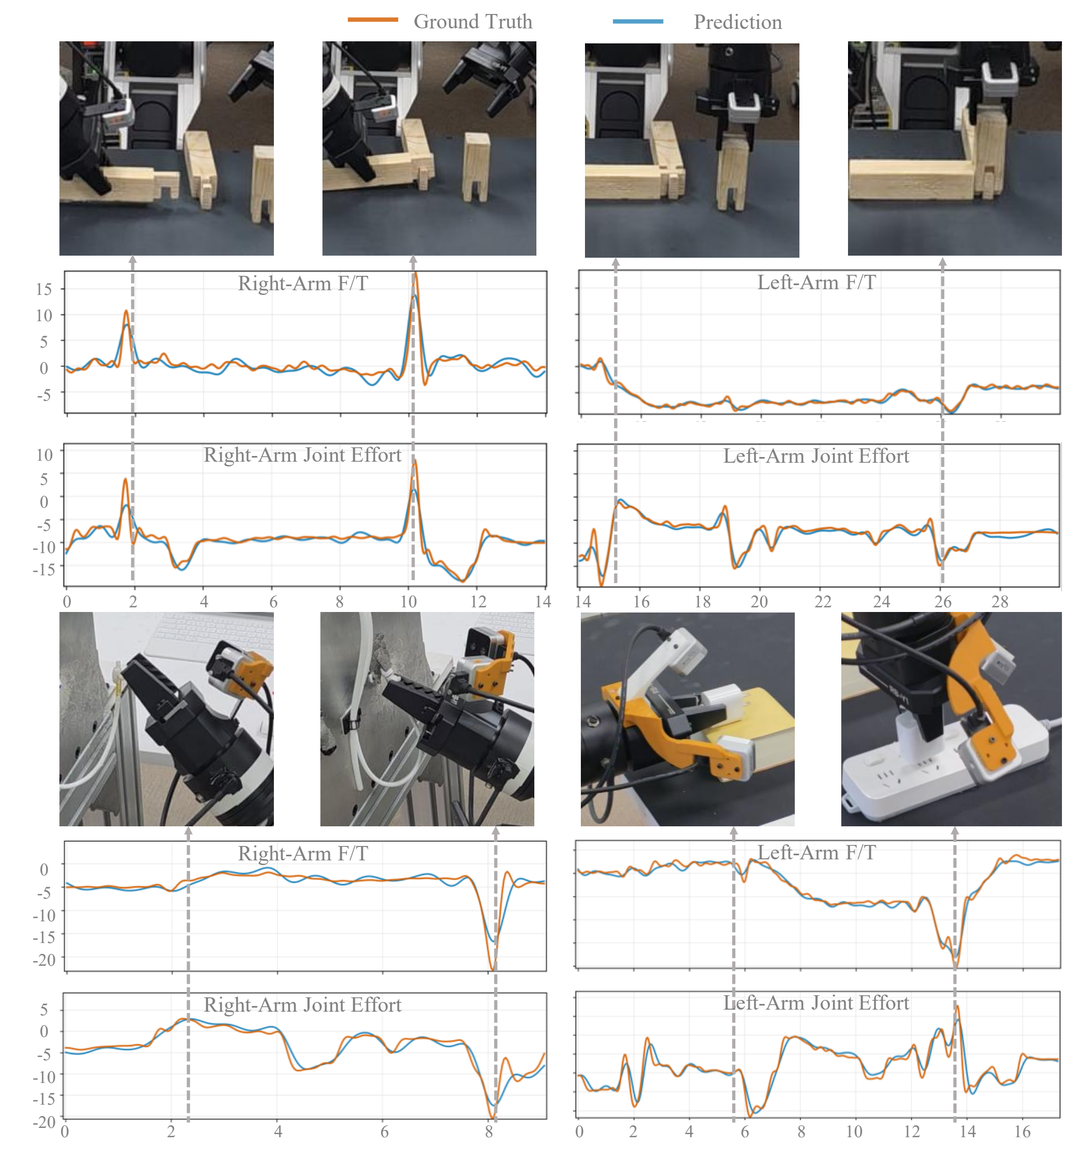
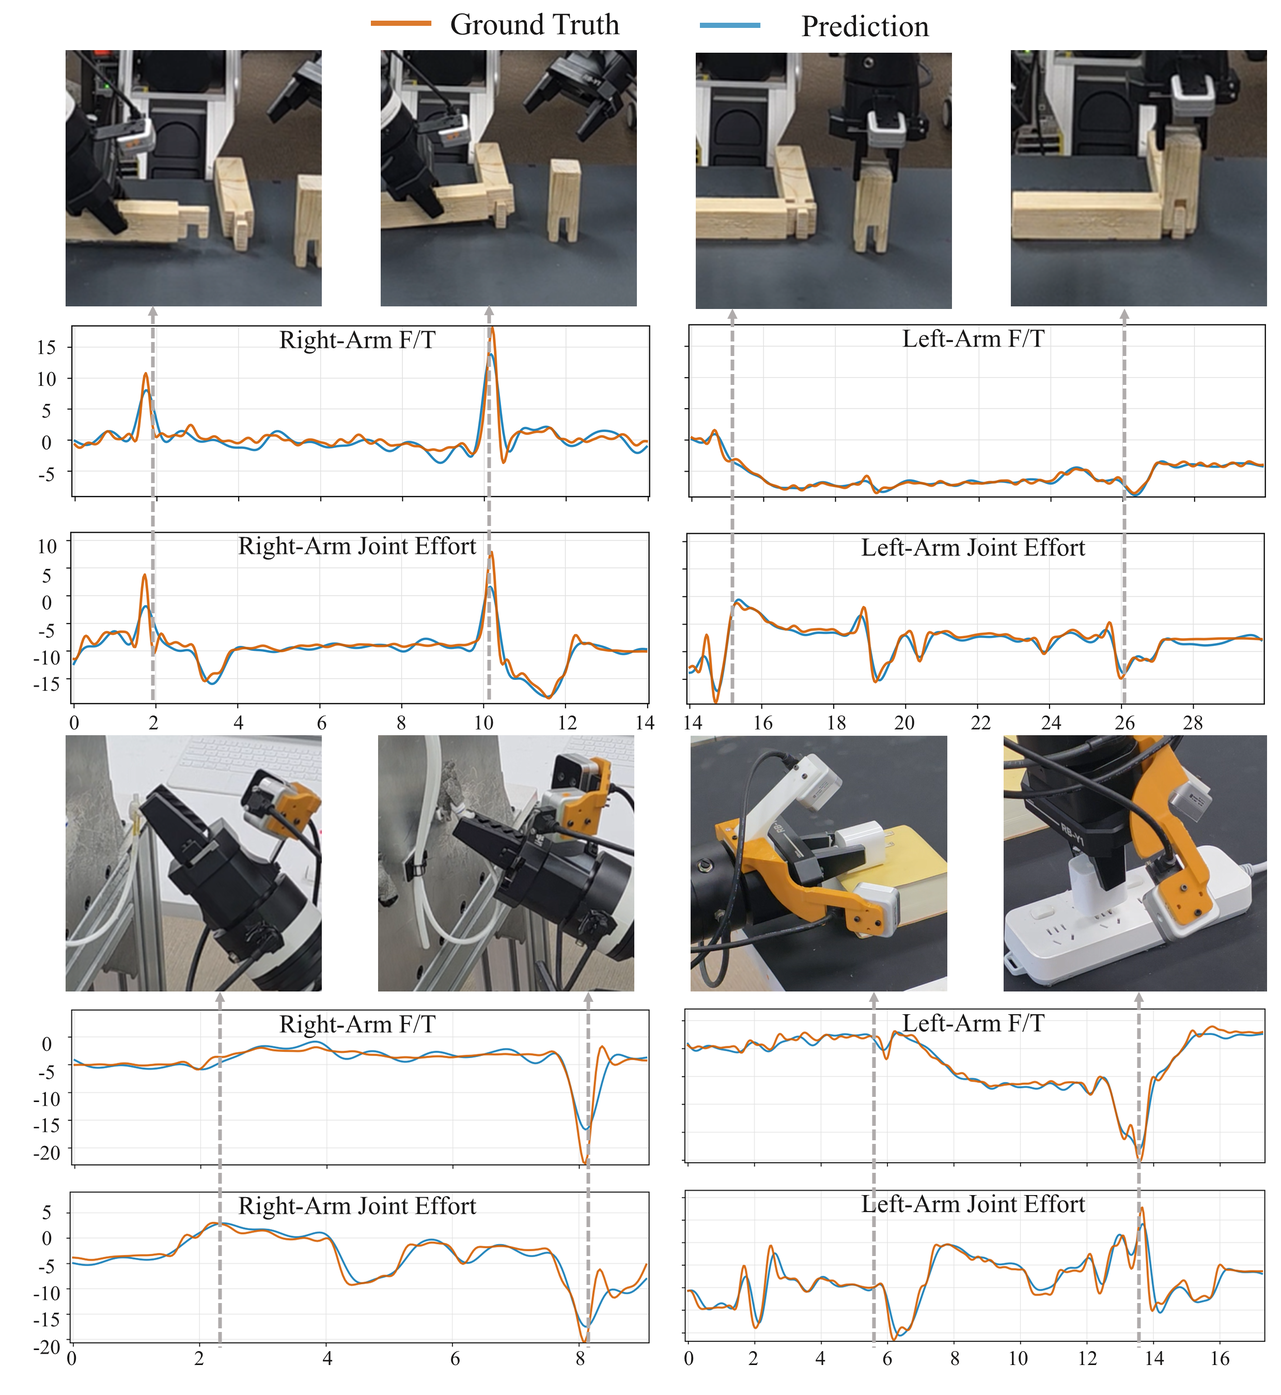
Update project page for PSR-VLA

diff --git a/index.html b/index.html
@@ -3,8 +3,8 @@
 <head>
   <meta charset="utf-8">
   <meta name="viewport" content="width=device-width, initial-scale=1">
-  <meta name="description" content="PSA research project page preview">
-  <title>PSA | Project Page</title>
+  <meta name="description" content="PSR-VLA research project page for predictive sensorimotor representation learning">
+  <title>PSR-VLA | Project Page</title>
   <link rel="icon" href="./assets/favicon.svg" type="image/svg+xml">
   <link rel="stylesheet" href="./styles.css">
 </head>
@@ -13,7 +13,7 @@
 
   <header class="site-header">
     <nav class="site-nav" aria-label="Primary navigation">
-      <a class="site-name" href="#top">PSA</a>
+      <a class="site-name" href="#top">PSR-VLA</a>
       <div class="site-links">
         <a href="#tasks">Tasks</a>
         <a href="#continuous">Stability Tests</a>
@@ -27,7 +27,7 @@
   <main id="main">
     <section class="paper-header" id="top">
       <p class="paper-status">Research project · 2026</p>
-      <h1><span>PSA:</span> Predictive Sensorimotor Alignment for Contact-Rich Manipulation</h1>
+      <h1><span>PSR-VLA:</span> Predictive Sensorimotor Representation Learning for Contact-Rich Manipulation</h1>
 
       <p class="authors">
         <a href="#">Shengbao Li<sup>*</sup></a>,
@@ -51,15 +51,15 @@
     </section>
 
     <section class="intro" aria-labelledby="intro-title">
-      <h2 id="intro-title">A predictive sensorimotor module gives a vision-language-action policy explicit physical context for contact-rich manipulation.</h2>
-      <p>PSA-VLA augments a π<sub>0.5</sub>-style policy with a six-layer multimodal Transformer trained to anticipate future force/torque, joint effort, and terminal joint-state displacement. Its hierarchical features are injected throughout the action expert to support precise interaction under contact.</p>
+      <h2 id="intro-title">Prediction-supervised sensorimotor representations connect physical history to action generation.</h2>
+      <p>PSR learns representations from multimodal sensorimotor signals by jointly forecasting future force/torque sequences, future joint-effort sequences, and terminal joint-state displacement. PSR-VLA integrates the resulting hierarchy into selected Action Expert layers through gated cross-attention.</p>
     </section>
 
     <section class="rollout-showcase" id="tasks" aria-labelledby="tasks-title">
       <div class="section-heading section-heading--wide">
         <p class="eyebrow">Real-world task suite</p>
         <h2 id="tasks-title">Six tasks across three levels of contact difficulty.</h2>
-        <p>The desktop layout reads by column: hard, medium, and easy. Each slot is reserved for a short, muted rollout from the corresponding PSA-VLA evaluation.</p>
+        <p>The desktop layout reads by column: hard, medium, and easy. Each slot is reserved for a short, muted rollout from the corresponding PSR-VLA evaluation.</p>
       </div>
 
       <div class="difficulty-grid">
@@ -153,35 +153,35 @@
       <div class="section-heading">
         <p class="eyebrow">Long-horizon stability tests</p>
         <h2 id="continuous-title">Continuous execution beyond the main evaluation.</h2>
-        <p>These tests are reported separately and are not included in the six-task success-rate averages. Water-Hose uses a task-specific dataset extended from 300 to 600 demonstrations; the Interlocking Joint test uses the original 300 demonstrations with no additional training data.</p>
+        <p>These stress tests reuse the PSR-VLA checkpoints from the main experiments without expanding the training sets or performing additional training. They are reported separately and are not included in the six-task success-rate averages.</p>
       </div>
 
       <div class="endurance-grid">
         <figure class="endurance-card endurance-card--water">
-          <header><div><span>Expanded dataset · 600 demonstrations</span><h3>Water-Hose Insertion</h3></div><strong>9 positions</strong></header>
+          <header><div><span>Main-experiment checkpoint · no added training</span><h3>Water-Hose Insertion</h3></div><strong>442 / 450</strong></header>
           <div class="endurance-video">
             <video autoplay muted loop playsinline preload="metadata" poster="./assets/task-water-hose.png" aria-label="Time-compressed recording of the continuous Water-Hose stability test"><source src="./assets/videos/07_water_hose_90min.mp4" type="video/mp4"></video>
             <span class="media-slot media-slot--light">9-min time-compressed slot</span>
           </div>
-          <figcaption class="endurance-stats" aria-label="Water-Hose stability test summary">
-            <p><strong>90</strong><span>source minutes</span></p>
-            <p><strong>9</strong><span>web-video minutes</span></p>
-            <p><strong>450</strong><span>consecutive trials</span></p>
+          <figcaption class="endurance-stats" aria-label="Water-Hose stability test: 442 successes in 450 consecutive trials, 98.2 percent, across nine positions">
+            <p><strong>442/450</strong><span>successful trials</span></p>
+            <p><strong>98.2%</strong><span>success rate</span></p>
             <p><strong>9</strong><span>test positions</span></p>
+            <p><strong>50</strong><span>trials per position</span></p>
           </figcaption>
         </figure>
 
         <figure class="endurance-card endurance-card--mortise">
-          <header><div><span>Original dataset · no added demonstrations</span><h3>Interlocking Joint Assembly</h3></div><strong>Continuous run</strong></header>
+          <header><div><span>Main-experiment checkpoint · no added training</span><h3>Interlocking Joint Assembly</h3></div><strong>48 / 50</strong></header>
           <div class="endurance-video">
             <video autoplay muted loop playsinline preload="metadata" poster="./assets/task-mortise-tenon.png" aria-label="Continuous 60-minute Interlocking Joint stability test"><source src="./assets/videos/08_mortise_tenon_60min.mp4" type="video/mp4"></video>
             <span class="media-slot media-slot--light">60-min test video slot</span>
           </div>
-          <figcaption class="endurance-stats" aria-label="Interlocking Joint stability test summary">
-            <p><strong>60</strong><span>test minutes</span></p>
-            <p><strong>80</strong><span>consecutive trials</span></p>
-            <p><strong>1</strong><span>continuous session</span></p>
-            <p><strong>300</strong><span>training demos</span></p>
+          <figcaption class="endurance-stats" aria-label="Interlocking Joint stability test: 48 successes in 50 consecutive trials, 96 percent">
+            <p><strong>48/50</strong><span>successful trials</span></p>
+            <p><strong>96.0%</strong><span>success rate</span></p>
+            <p><strong>50</strong><span>consecutive trials</span></p>
+            <p><strong>0</strong><span>retries or recovery</span></p>
           </figcaption>
         </figure>
       </div>
@@ -218,23 +218,23 @@
     <section class="content-section model-section" id="model">
       <div class="section-heading">
         <p class="eyebrow">Method</p>
-        <h2>The PSA-VLA Model</h2>
-        <p>PSA receives multiview visual tokens, force/torque history, robot state, and joint-effort history. Predictive pretraining turns these signals into shallow, middle, and deep physical representations that condition six levels of the action expert.</p>
+        <h2>The PSR-VLA Model</h2>
+        <p>PSR receives multiview visual tokens, force/torque history, robot state, and joint-effort history. Predictive pretraining produces an ordered hierarchy of prediction-supervised representations that condition selected layers of the Action Expert.</p>
       </div>
 
       <figure class="wide-figure">
-        <img src="./assets/fig-method-overview.png" alt="PSA-VLA model overview">
-        <figcaption><span>Figure 1.</span> Sensorimotor predictive learning and hierarchical injection into the VLA action expert.</figcaption>
+        <img src="./assets/fig-method-overview.png" alt="PSR-VLA model overview">
+        <figcaption><span>Figure 1.</span> PSR learns prediction-supervised sensorimotor representations through multi-target forecasting and integrates them into selected Action Expert layers.</figcaption>
       </figure>
 
-      <div class="method-explanation" aria-label="PSA-VLA training stages">
+      <div class="method-explanation" aria-label="PSR-VLA training stages">
         <article>
           <span>01</span>
           <div><h3>Predictive pretraining</h3><p>A multimodal Transformer processes visual tokens together with force/torque, robot-state, and joint-effort histories. A shared decoder reads every retained layer and predicts future force/torque, future joint effort, and terminal joint-state displacement, shaping a hierarchy that captures contact response, actuation load, and motion intent.</p></div>
         </article>
         <article>
           <span>02</span>
-          <div><h3>Depth-aligned action augmentation</h3><p>During action learning, selected Action Expert layers query the corresponding PSA representations through gated cross-attention. Independently learned gates regulate each residual update, injecting progressively integrated physical context while preserving the pretrained action pathway.</p></div>
+          <div><h3>Sensorimotor representation integration</h3><p>During action learning, selected Action Expert layers query the corresponding PSR representations through gated cross-attention. Independently learned gates regulate each residual update, exposing progressively fused physical context at successive stages while preserving the pretrained action pathway.</p></div>
         </article>
       </div>
     </section>
@@ -253,7 +253,7 @@
             <span><i class="legend-pi" aria-hidden="true"></i>π<sub>0.5</sub></span>
             <span><i class="legend-force" aria-hidden="true"></i>ForceVLA</span>
             <span><i class="legend-force2" aria-hidden="true"></i>ForceVLA2</span>
-            <span><i class="legend-spa" aria-hidden="true"></i>PSA-VLA</span>
+            <span><i class="legend-spa" aria-hidden="true"></i>PSR-VLA</span>
           </div>
 
           <div class="chart-body">
@@ -265,25 +265,25 @@
                 <span class="band-hard">Hard</span><span class="band-medium">Medium</span><span class="band-easy">Easy</span><span class="band-average">Overall</span>
               </div>
               <div class="chart-groups">
-                <section class="chart-group" aria-label="Interlocking Joint Assembly: π0.5 45%, ForceVLA-π0.5 60%, ForceVLA2-π0.5 65%, PSA-VLA 90%">
+                <section class="chart-group" aria-label="Interlocking Joint Assembly: π0.5 45%, ForceVLA-π0.5 60%, ForceVLA2-π0.5 65%, PSR-VLA 90%">
                   <div class="bar-pack"><i class="metric-bar bar-pi" style="--value:45"><b>45</b></i><i class="metric-bar bar-force" style="--value:60"><b>60</b></i><i class="metric-bar bar-force2" style="--value:65"><b>65</b></i><i class="metric-bar bar-spa" style="--value:90"><b>90</b></i></div><img class="chart-task-image" src="./assets/task-mortise-tenon.png" alt="" loading="lazy"><h3>Interlocking<br>Joint</h3>
                 </section>
-                <section class="chart-group" aria-label="Water-Hose Insertion: π0.5 65%, ForceVLA-π0.5 70%, ForceVLA2-π0.5 75%, PSA-VLA 95%">
+                <section class="chart-group" aria-label="Water-Hose Insertion: π0.5 65%, ForceVLA-π0.5 70%, ForceVLA2-π0.5 75%, PSR-VLA 95%">
                   <div class="bar-pack"><i class="metric-bar bar-pi" style="--value:65"><b>65</b></i><i class="metric-bar bar-force" style="--value:70"><b>70</b></i><i class="metric-bar bar-force2" style="--value:75"><b>75</b></i><i class="metric-bar bar-spa" style="--value:95"><b>95</b></i></div><img class="chart-task-image" src="./assets/task-water-hose.png" alt="" loading="lazy"><h3>Water-<br>Hose</h3>
                 </section>
-                <section class="chart-group" aria-label="Three-Hole Plug Insertion: π0.5 60%, ForceVLA-π0.5 60%, ForceVLA2-π0.5 85%, PSA-VLA 80%">
+                <section class="chart-group" aria-label="Three-Hole Plug Insertion: π0.5 60%, ForceVLA-π0.5 60%, ForceVLA2-π0.5 85%, PSR-VLA 80%">
                   <div class="bar-pack"><i class="metric-bar bar-pi" style="--value:60"><b>60</b></i><i class="metric-bar bar-force" style="--value:60"><b>60</b></i><i class="metric-bar bar-force2" style="--value:85"><b>85</b></i><i class="metric-bar bar-spa" style="--value:80"><b>80</b></i></div><img class="chart-task-image" src="./assets/task-three-hole-plug.png" alt="" loading="lazy"><h3>3-Hole<br>Plug</h3>
                 </section>
-                <section class="chart-group" aria-label="LEGO Assembly: π0.5 65%, ForceVLA-π0.5 70%, ForceVLA2-π0.5 55%, PSA-VLA 90%">
+                <section class="chart-group" aria-label="LEGO Assembly: π0.5 65%, ForceVLA-π0.5 70%, ForceVLA2-π0.5 55%, PSR-VLA 90%">
                   <div class="bar-pack"><i class="metric-bar bar-pi" style="--value:65"><b>65</b></i><i class="metric-bar bar-force" style="--value:70"><b>70</b></i><i class="metric-bar bar-force2" style="--value:55"><b>55</b></i><i class="metric-bar bar-spa" style="--value:90"><b>90</b></i></div><img class="chart-task-image" src="./assets/task-lego.png" alt="" loading="lazy"><h3>LEGO</h3>
                 </section>
-                <section class="chart-group" aria-label="Two-Hole Plug Insertion: π0.5 65%, ForceVLA-π0.5 75%, ForceVLA2-π0.5 80%, PSA-VLA 95%">
+                <section class="chart-group" aria-label="Two-Hole Plug Insertion: π0.5 65%, ForceVLA-π0.5 75%, ForceVLA2-π0.5 80%, PSR-VLA 95%">
                   <div class="bar-pack"><i class="metric-bar bar-pi" style="--value:65"><b>65</b></i><i class="metric-bar bar-force" style="--value:75"><b>75</b></i><i class="metric-bar bar-force2" style="--value:80"><b>80</b></i><i class="metric-bar bar-spa" style="--value:95"><b>95</b></i></div><img class="chart-task-image" src="./assets/task-two-hole-plug.png" alt="" loading="lazy"><h3>2-Hole<br>Plug</h3>
                 </section>
-                <section class="chart-group" aria-label="Board Wiping: π0.5 70%, ForceVLA-π0.5 80%, ForceVLA2-π0.5 75%, PSA-VLA 100%">
+                <section class="chart-group" aria-label="Board Wiping: π0.5 70%, ForceVLA-π0.5 80%, ForceVLA2-π0.5 75%, PSR-VLA 100%">
                   <div class="bar-pack"><i class="metric-bar bar-pi" style="--value:70"><b>70</b></i><i class="metric-bar bar-force" style="--value:80"><b>80</b></i><i class="metric-bar bar-force2" style="--value:75"><b>75</b></i><i class="metric-bar bar-spa" style="--value:100"><b>100</b></i></div><img class="chart-task-image" src="./assets/task-board-wipe.png" alt="" loading="lazy"><h3>Board<br>Wipe</h3>
                 </section>
-                <section class="chart-group chart-group--average" aria-label="Overall success rate: π0.5 61.7%, ForceVLA-π0.5 69.2%, ForceVLA2-π0.5 72.5%, PSA-VLA 91.7%">
+                <section class="chart-group chart-group--average" aria-label="Overall success rate: π0.5 61.7%, ForceVLA-π0.5 69.2%, ForceVLA2-π0.5 72.5%, PSR-VLA 91.7%">
                   <div class="bar-pack"><i class="metric-bar bar-pi" style="--value:61.7"><b>61.7</b></i><i class="metric-bar bar-force" style="--value:69.2"><b>69.2</b></i><i class="metric-bar bar-force2" style="--value:72.5"><b>72.5</b></i><i class="metric-bar bar-spa" style="--value:91.7"><b>91.7</b></i></div><div class="chart-overall-total" aria-hidden="true"><strong>110</strong><span>/ 120</span></div><h3>Overall</h3>
                 </section>
               </div>
@@ -299,9 +299,10 @@
           <small>110 / 120 successful trials</small>
         </div>
         <div class="results-copy">
-          <h3>Predictive sensorimotor augmentation improves performance across difficulty levels.</h3>
-          <p>Under the same backbone and evaluation protocol, PSA-VLA reaches 110/120 successful trials, compared with 74/120 for π<sub>0.5</sub>, 83/120 for ForceVLA-π<sub>0.5</sub>, and 87/120 for ForceVLA2-π<sub>0.5</sub>. These correspond to gains of <strong>30.0, 22.5, and 19.2 percentage points</strong>, respectively. PSA-VLA achieves the highest success rate on five of the six tasks.</p>
-          <p>The gains remain consistent from hard tasks (92.5% mean) to medium (85.0%) and easy tasks (97.5%). Three-Hole Plug Insertion is the only task not led by PSA-VLA, where ForceVLA2-π<sub>0.5</sub> reaches 85% compared with 80% for PSA-VLA.</p>
+          <h3>Predictive sensorimotor representation learning improves performance across difficulty levels.</h3>
+          <p>Under the same backbone and evaluation protocol, PSR-VLA reaches 110/120 successful trials, compared with 74/120 for π<sub>0.5</sub>, 83/120 for ForceVLA-π<sub>0.5</sub>, and 87/120 for ForceVLA2-π<sub>0.5</sub>. These correspond to gains of <strong>30.0, 22.5, and 19.2 percentage points</strong>, respectively. PSR-VLA achieves the highest success rate on five of the six tasks.</p>
+          <p>Across the tabulated run and three additional PSR-VLA training runs, performance is <strong>109.5 ± 2.5 successes</strong> out of 120, or <strong>91.3 ± 2.1%</strong> (mean ± s.d.). This stability analysis is PSR-VLA-only and is not a seed-matched comparison with the baselines.</p>
+          <p>The gains remain consistent from hard tasks (92.5% mean) to medium (85.0%) and easy tasks (97.5%). Three-Hole Plug Insertion is the only task not led by PSR-VLA, where ForceVLA2-π<sub>0.5</sub> reaches 85% compared with 80% for PSR-VLA.</p>
         </div>
       </div>
     </section>
@@ -310,7 +311,7 @@
       <div class="section-heading">
         <p class="eyebrow">Matched qualitative comparison</p>
         <h2 id="qualitative-title">Maintaining the insertion axis under contact.</h2>
-        <p>Both policies begin the Three-Hole Plug task with closely matched plug-to-socket alignment. As contact loads build, π<sub>0.5</sub> develops lateral drift and ends off-axis. PSA-VLA preserves axial alignment and directs the applied force vertically downward, completing the insertion.</p>
+        <p>Both policies begin the Three-Hole Plug task with closely matched plug-to-socket alignment. As contact loads build, π<sub>0.5</sub> develops lateral drift and ends off-axis. PSR-VLA preserves axial alignment and directs the applied force vertically downward, completing the insertion.</p>
       </div>
 
       <div class="qualitative-grid">
@@ -328,14 +329,14 @@
 
         <figure class="qualitative-item qualitative-item--ours">
           <header>
-            <div><span>PSA-VLA · Ours</span><h3>Three-Hole Plug Insertion</h3></div>
+            <div><span>PSR-VLA · Ours</span><h3>Three-Hole Plug Insertion</h3></div>
             <strong>Success · Vertical insertion</strong>
           </header>
           <div class="qualitative-video">
-            <video autoplay muted loop playsinline preload="metadata" poster="./assets/task-three-hole-plug.png" aria-label="PSA-VLA Three-Hole Plug rollout with vertical insertion"><source src="./assets/videos/12_three_hole_plug_spa_vla.mp4" type="video/mp4"></video>
-            <span class="media-slot">PSA-VLA MP4 slot</span>
+            <video autoplay muted loop playsinline preload="metadata" poster="./assets/task-three-hole-plug.png" aria-label="PSR-VLA Three-Hole Plug rollout with vertical insertion"><source src="./assets/videos/12_three_hole_plug_spa_vla.mp4" type="video/mp4"></video>
+            <span class="media-slot">PSR-VLA MP4 slot</span>
           </div>
-          <figcaption>PSA-VLA maintains axial alignment, applies a stable downward force, and completes a clean insertion.</figcaption>
+          <figcaption>PSR-VLA maintains axial alignment, applies a stable downward force, and completes a clean insertion.</figcaption>
         </figure>
       </div>
 
@@ -346,7 +347,7 @@
       <div class="section-heading">
         <p class="eyebrow">Ablation studies</p>
         <h2 id="ablation-title">Where the predictive hierarchy matters.</h2>
-        <p>Controlled variants test predictive initialization, ordered layer-to-depth alignment, integration depth, and hierarchical feature reuse on Water-Hose Insertion and Two-Hole Plug Insertion.</p>
+        <p>Controlled variants test predictive initialization, distinct depth-wise representations, multi-depth integration, and representation-to-layer alignment on Water-Hose Insertion and Two-Hole Plug Insertion.</p>
       </div>
 
       <div class="ablation-table-wrap">
@@ -361,19 +362,19 @@
               <td><strong>14/20</strong><span>70%</span></td><td><strong>11/20</strong><span>55%</span></td><td><strong>62.5%</strong><span>mean</span></td>
             </tr>
             <tr class="ablation-control">
-              <th scope="row">Reversed Injection Order<small>Reverse layer-to-depth mapping</small></th>
+              <th scope="row">Reversed Alignment<small>Reverse representation-to-layer pairing</small></th>
               <td><strong>13/20</strong><span>65%</span></td><td><strong>12/20</strong><span>60%</span></td><td><strong>62.5%</strong><span>mean</span></td>
             </tr>
             <tr>
-              <th scope="row">Late Fusion<small>Single output-side conditioning</small></th>
+              <th scope="row">Output-Level Conditioning<small>Condition only at the Action Expert output</small></th>
               <td><strong>10/20</strong><span>50%</span></td><td><strong>11/20</strong><span>55%</span></td><td><strong>52.5%</strong><span>mean</span></td>
             </tr>
             <tr>
-              <th scope="row">Shared Z<sup>(6)</sup> at All Layers<small>Reuse the deepest representation</small></th>
+              <th scope="row">Shared Deepest Representation<small>Reuse z<sub>6</sub> at all six injection sites</small></th>
               <td><strong>14/20</strong><span>70%</span></td><td><strong>15/20</strong><span>75%</span></td><td><strong>72.5%</strong><span>mean</span></td>
             </tr>
             <tr class="ablation-ours">
-              <th scope="row">PSA-VLA<small>Full model</small></th>
+              <th scope="row">PSR-VLA<small>Full model</small></th>
               <td><strong>19/20</strong><span>95%</span></td><td><strong>19/20</strong><span>95%</span></td><td><strong>95.0%</strong><span>mean</span></td>
             </tr>
           </tbody>
@@ -384,13 +385,13 @@
     <section class="content-section prediction-section" aria-labelledby="prediction-title">
       <div class="section-heading">
         <p class="eyebrow">Predictive representation</p>
-        <h2 id="prediction-title">What PSA learns before acting.</h2>
-        <p>Predicted force/torque and joint-effort trajectories follow the measured interaction dynamics across insertion and assembly, providing the physical context used by the action expert.</p>
+        <h2 id="prediction-title">What PSR learns before acting.</h2>
+        <p>On held-out sequences, PSR reduces normalized MSE over a persistence baseline by 54.9% for future force/torque, 48.1% for future joint effort, and 87.5% for terminal joint-state displacement.</p>
       </div>
 
       <figure class="wide-figure wide-figure--prediction">
         <img src="./assets/fig-prediction-trajectories.png" alt="Predicted and measured force, torque, and joint-effort trajectories">
-        <figcaption><span>Figure 2.</span> Ground-truth and predicted sensorimotor trajectories on representative contact-rich tasks.</figcaption>
+        <figcaption><span>Figure 2.</span> Stage-1 predictions on held-out offline sequences; displayed channels are selected by event-associated ground-truth variation rather than prediction accuracy.</figcaption>
       </figure>
     </section>
 
@@ -401,8 +402,8 @@
         <p>Venue, paper, code, and model links will be updated when the public release information is confirmed.</p>
       </div>
       <div class="citation-box">
-        <pre id="bibtex"><code>@article{li2026psa,
-  title   = {PSA: Predictive Sensorimotor Alignment
+        <pre id="bibtex"><code>@article{li2026psrvla,
+  title   = {PSR-VLA: Predictive Sensorimotor Representation Learning
              for Contact-Rich Manipulation},
   author  = {Li, Shengbao and Xu, Peng and Tang, Chao and
              Wang, Jiaheng and Yin, Hong and Weihao and Zhu, Jingxuan and
@@ -416,7 +417,7 @@
   </main>
 
   <footer>
-    <a href="#top">PSA</a>
+    <a href="#top">PSR-VLA</a>
     <p>Project page preview · 2026</p>
   </footer>
 

diff --git a/README.md b/README.md
@@ -1,4 +1,4 @@
-# PSA Experiment Preview
+# PSR-VLA Experiment Preview
 
 This independent project-page preview uses an OpenVLA-style academic structure
 with a restrained visual language inspired by Physical Intelligence. The
